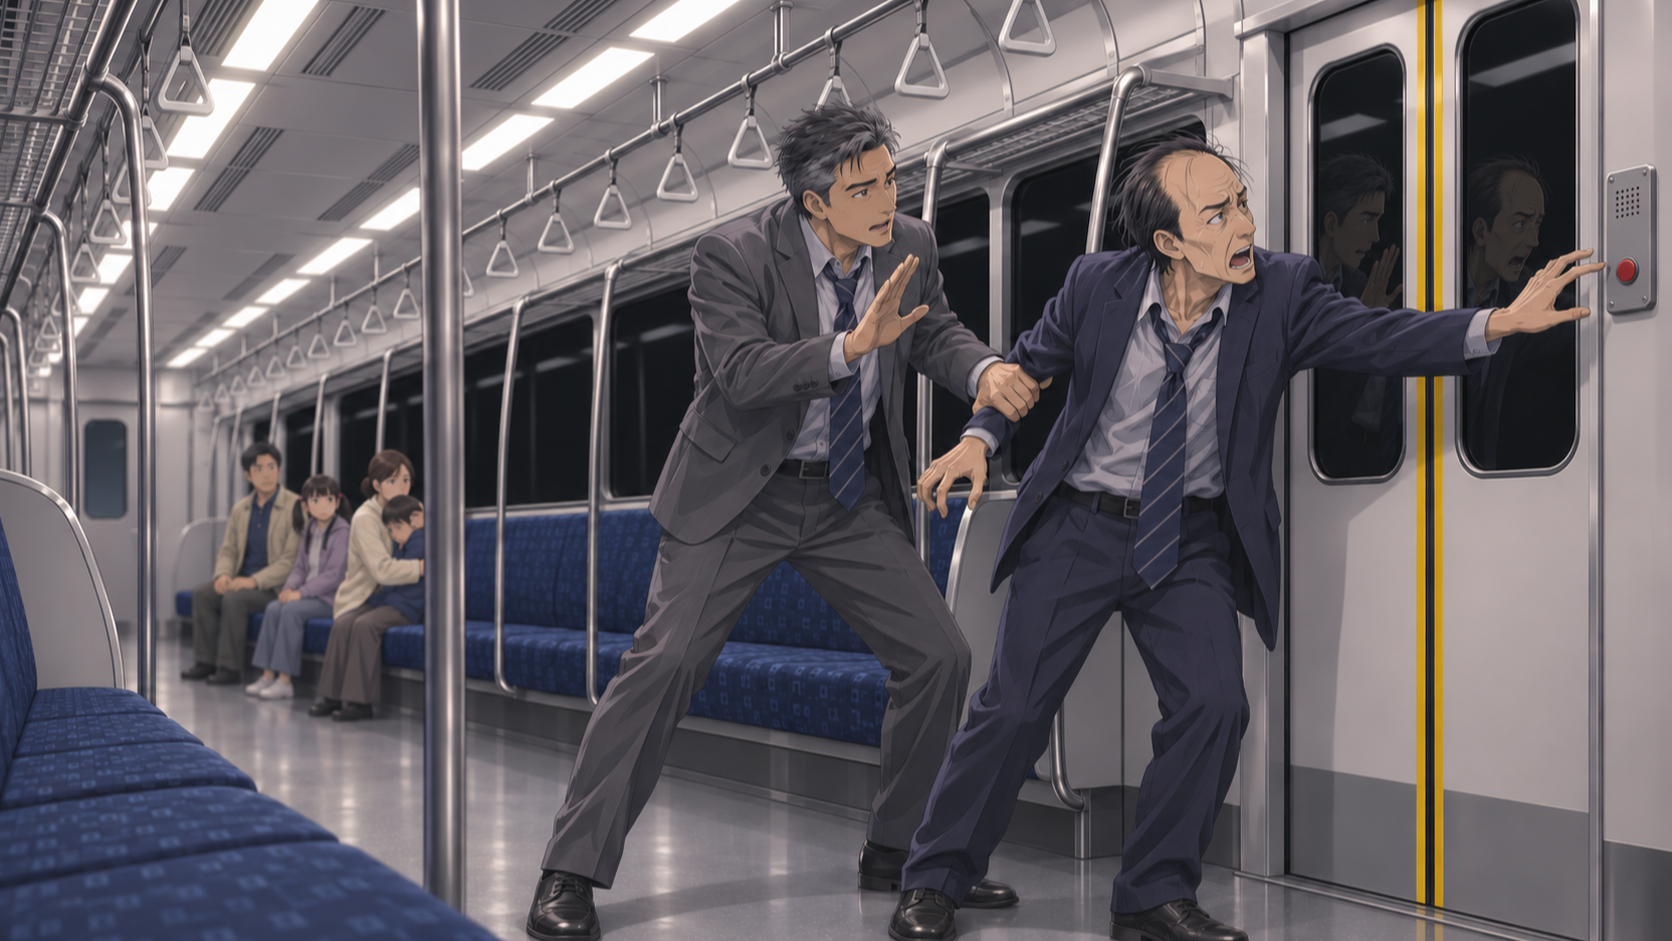
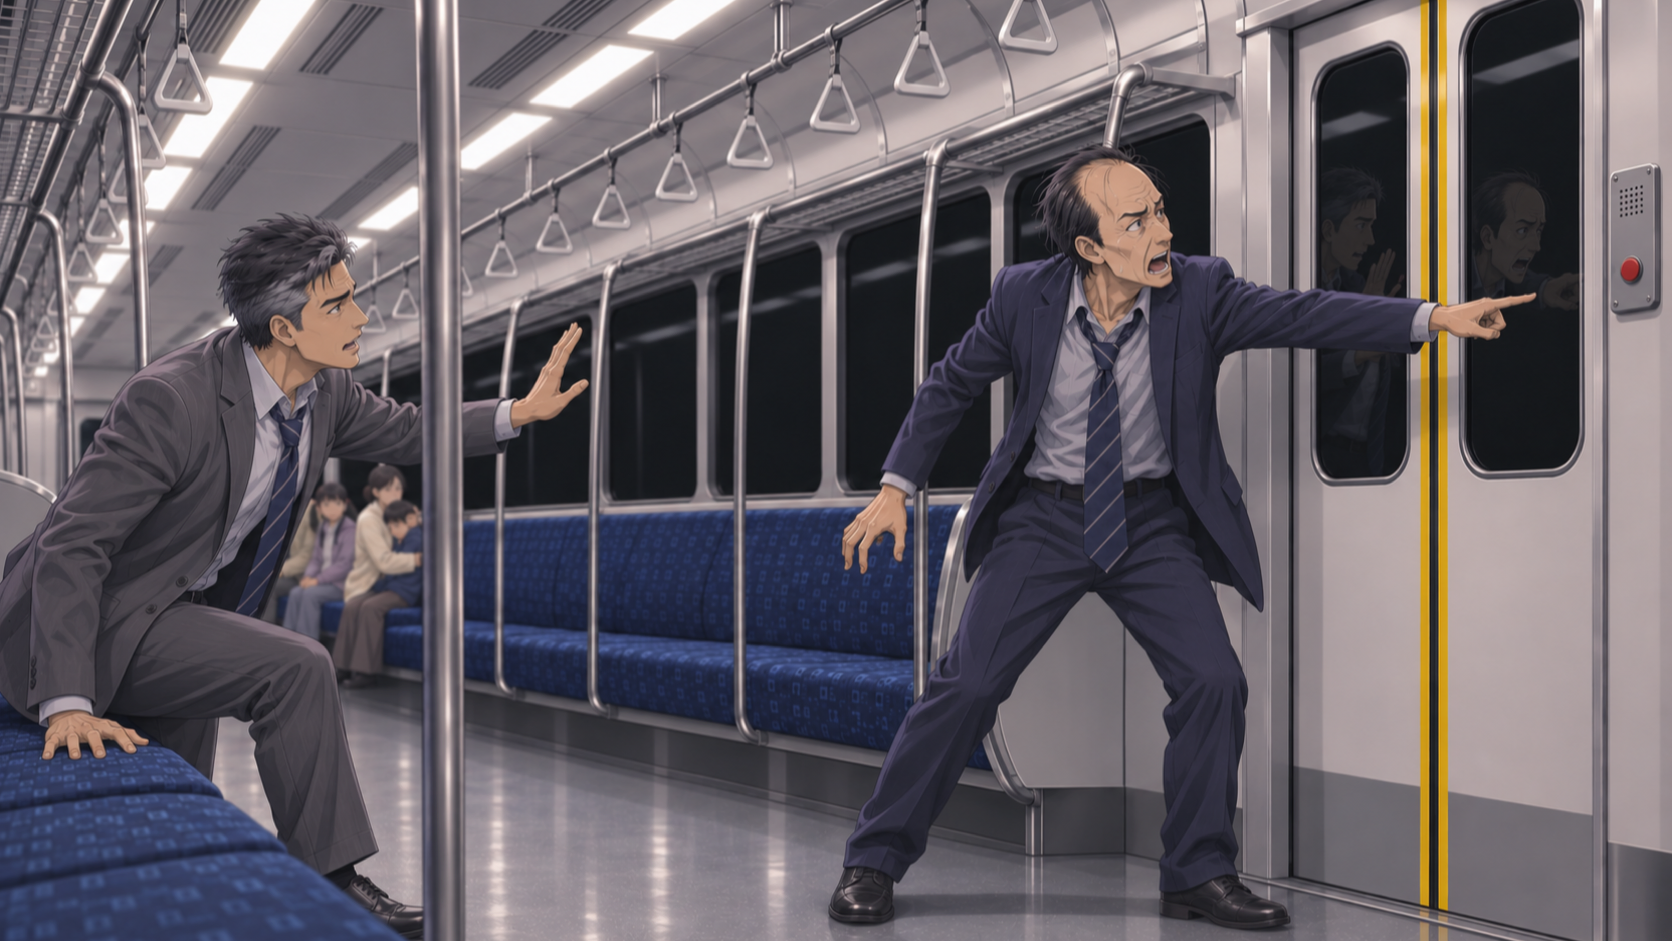
fix(stories): cue Platform arrival and intercom shots on their beats
The arrival headlights now start at the tunnel glimmer (act 1 box 47),
with act1_s0 held over the announcement. The intercom shot starts when
Nakamura demands the button (act 2 box 47) and is regenerated as a
shouting match: he points at the button, Yamamoto half-rises with a
palm raised, and nobody touches.

diff --git a/packages/stories/raw/trainAdventure/act2.md b/packages/stories/raw/trainAdventure/act2.md
@@ -122,11 +122,11 @@ the same Chuo Line commuter carriage as the reference image: side-facing navy pa
 
 **旁白**：她的聲音戛然而止，臉色變得蒼白。孩子察覺到母親的不安，哭聲更大了。那位母親只能把孩子的臉按在自己懷裡，不讓他看到周圍人臉上的恐懼。
 
-```bg intercom
-the same Chuo Line commuter carriage as the reference image: side-facing navy patterned bench seats split by silver stanchion poles, silver grab rails with white triangular hand straps, flat white LED ceiling panels, large rectangular windows above the benches, light-grey floor, sliding doors with yellow edging, no advertisements. Camera: a low-angle medium-wide shot from seat height on the LEFT bench, looking across the aisle at the RIGHT wall where a sliding door with yellow edging stands closed; beside the door, a small grey emergency intercom panel with a round red call button, no readable text. Inside the tunnel: every window is pure black and works as a mirror; no city, no buildings, no lights outside. Nakamura (thin balding man in his 50s with wispy thin hair, crumpled navy suit, loosened navy striped tie) is on his feet beside the door, reaching toward the red button, his face twisted with panic as he shouts; Yamamoto (late-40s man, short grey-streaked hair, grey suit, white shirt, navy striped tie) has stepped across the aisle and grips Nakamura's wrist firmly with one hand, his other hand raised palm out, telling him to calm down. Further along the right bench, beyond several empty seats, small and out of focus: the Kobayashi family side by side (the father in a light jacket and polo, the twelve-year-old girl in pigtails, the mother in a cream cardigan holding her ten-year-old son's face against her chest). Only the people named here are in view, with empty seats between groups and no other passengers; window reflections show only these same people, no extra figures. Muted cold palette, moody cinematic visual-novel background art, 16:9, no text, no logo
-```
-
 **旁白**：焦慮像會傳染的病毒，迅速在車廂內蔓延。人們開始交頭接耳，竊竊私語變成了公開的抱怨和質疑。有人開始頻繁地看手錶，有人不停刷新手機，有人站起來走動。
+
+```bg intercom
+the same Chuo Line commuter carriage as the reference image: side-facing navy patterned bench seats split by silver stanchion poles, silver grab rails with white triangular hand straps, flat white LED ceiling panels, large rectangular windows above the benches, light-grey floor, sliding doors with yellow edging, no advertisements. Camera: a low-angle medium-wide shot from seat height on the LEFT bench, looking across the aisle at the RIGHT wall where a sliding door with yellow edging stands closed; beside the door, a small grey emergency intercom panel with a round red call button, no readable text. Inside the tunnel: every window is pure black and works as a mirror; no city, no buildings, no lights outside. Nakamura (thin balding man in his 50s with wispy thin hair, crumpled navy suit, loosened navy striped tie) is on his feet a step from the door, pointing at the red button with one outstretched arm while he shouts back over his shoulder, his face twisted with panic; he does not touch the button. Yamamoto (late-40s man, short grey-streaked hair, grey suit, white shirt, navy striped tie) is half-risen from his seat on the near side of the aisle, one hand raised palm out toward Nakamura, telling him to calm down; the two men do not touch. Further along the right bench, beyond several empty seats, small and out of focus: the Kobayashi family side by side (the father in a light jacket and polo, the twelve-year-old girl in pigtails, the mother in a cream cardigan holding her ten-year-old son's face against her chest). Only the people named here are in view, with empty seats between groups and no other passengers; window reflections show only these same people, no extra figures. Muted cold palette, moody cinematic visual-novel background art, 16:9, no text, no logo
+```
 
 **自私中年男**：喂！肯定出事了！是不是該去按那個緊急通話鈕啊！不然我們就在這裡困到天亮嗎？萬一出事怎麼辦！
 

diff --git a/packages/stories/raw/trainAdventure/docs/art-bible.md b/packages/stories/raw/trainAdventure/docs/art-bible.md
@@ -44,7 +44,7 @@ Vary both the camera position and the distance from scene to scene; never run th
 | act1_platform_saito | Saito cuts in | medium-wide from the track side | Saito, the four students |
 | act1_platform_emi | Li Jie notices Emi | medium close-up, low side angle | Emi |
 | act1_platform_lingmo | The man in the pillar's shadow | long-lens medium, low angle | Ling Mo (commuters blurred) |
-| act1_platform_arrival | The last train arrives | low, down the tracks | headlights in the tunnel mouth, no train body |
+| act1_platform_arrival | The last train arrives, from the first glimmer in the tunnel through boarding (held over the doors opening, since the train body is never shown) | low, down the tracks | headlights in the tunnel mouth, no train body |
 | act1_s1 | Boarding, doors close | A, wide, eye level | everyone, spread out in their groups |
 | act2_s0 | City lights, quiet ride | three-quarter diagonal, medium | Emi, Li Jie (Yamamoto far off) |
 | act2_s1 | Into the tunnel | close-up, side view against the black window | Li Jie (Emi at the edge) |
@@ -52,7 +52,7 @@ Vary both the camera position and the distance from scene to scene; never run th
 | act2_yamamoto | Yamamoto: thirty years on this line | three-quarter medium along the left bench | Yamamoto (Ito couple blurred, further along) |
 | act2_s3 | Ito couple argue | C, medium, straight on | Ito couple, Ling Mo in the corner |
 | act2_s4 | Boy cries, Nakamura agitated | three-quarter close-up | the Kobayashi family (Nakamura blurred, further along) |
-| act2_intercom | Nakamura goes for the emergency button | low angle from seat height, medium-wide across the aisle | Nakamura, Yamamoto (Kobayashi family blurred) |
+| act2_intercom | Nakamura demands someone press the emergency button | low angle from seat height, medium-wide across the aisle; a shouting match, nobody touches the button or each other | Nakamura, Yamamoto (Kobayashi family blurred) |
 | act2_s5 | Emi's spiral drawing | over-the-shoulder insert | Emi's sketchbook and hand |
 | act2_s6 | Blue-black glow ahead | B, extreme wide | everyone, in their groups |
 | act3_s0 | Sea and two moons | from behind, medium-wide | students at the windows (Nakamura, family small far off) |
@@ -62,7 +62,7 @@ Vary both the camera position and the distance from scene to scene; never run th
 | act3_s4 | The door opens, nobody moves | straight on at the open door | Saito, Yamamoto |
 | act3_door_argument | Argument at the open door | three-quarter wide toward the open door | Yamamoto, Ito Makoto, Nakamura, the four students |
 
-The new backgrounds are named on their fence (` ```bg platform_students ` keys `act1_platform_students`) so the original 14 `s<N>` keys never renumber. Shown again with a `reuse` bg block: act1_platform_students when the students go back to their own talk, act1_s0 while Saito fakes scrolling, act1_s1 in act 2 while the students plan tomorrow, then act2_s0 for Li Jie's next thought, and act3_s4 once the door argument dies down.
+The new backgrounds are named on their fence (` ```bg platform_students ` keys `act1_platform_students`) so the original 14 `s<N>` keys never renumber. Shown again with a `reuse` bg block: act1_platform_students when the students go back to their own talk, act1_s0 while Saito fakes scrolling and again during the arrival announcement, act1_s1 in act 2 while the students plan tomorrow, then act2_s0 for Li Jie's next thought, and act3_s4 once the door argument dies down.
 
 There is no exterior shot: an outside view of the train never matched the interior, so the station is seen through the windows and the open door.
 

diff --git a/packages/stories/raw/trainAdventure/act1.md b/packages/stories/raw/trainAdventure/act1.md
@@ -116,13 +116,17 @@ the same late-night Shinjuku Chuo Line platform as the reference image: steel ca
 
 **李杰**：(內心)那個人⋯⋯總覺得有點違和感。為什麼要把自己裹得那麼嚴實？而且那個姿勢⋯⋯不像是在等車，更像是在⋯⋯觀察什麼。算了，大概是我想多了。這座城市裡，什麼樣的人都有。
 
-```bg platform_arrival
-the same late-night Shinjuku Chuo Line platform as the reference image: steel canopy roof with lattice girders and rows of white fluorescent tubes, square brushed-steel pillars, glossy light-grey tiled floor, yellow tactile strip along the platform edge, tracks running into a black tunnel mouth at the far end, a black departure board with glowing amber bars and no readable characters, silver metal benches against a low back wall with a steel railing, the Tokyo night city with lit office towers beyond; no advertisements. Camera: low, near the platform edge, looking straight down the length of the tracks and the platform toward the black tunnel mouth at the far end, the yellow tactile strip running away from the camera like a guide line. Inside the darkness of the tunnel mouth, two bright white headlights have just broken through, their glare blooming in a soft halo, light spilling forward along the rails and glinting on the steel; no train body is visible, only the lights in the dark. The departure board glows above. A few late-night commuters far down the platform step back behind the yellow line as small dark silhouettes with no visible faces. No train carriages, no train front. Muted cold palette, moody cinematic visual-novel background art, 16:9, no text, no logo
+```bg
+reuse _root/act1_s0
 ```
 
 **旁白**：這時，月台的廣播響起，打斷了李杰的思緒。
 
 **廣播聲**：往高尾方向的末班車即將進站，請各位乘客退到黃線後方等候。
+
+```bg platform_arrival
+the same late-night Shinjuku Chuo Line platform as the reference image: steel canopy roof with lattice girders and rows of white fluorescent tubes, square brushed-steel pillars, glossy light-grey tiled floor, yellow tactile strip along the platform edge, tracks running into a black tunnel mouth at the far end, a black departure board with glowing amber bars and no readable characters, silver metal benches against a low back wall with a steel railing, the Tokyo night city with lit office towers beyond; no advertisements. Camera: low, near the platform edge, looking straight down the length of the tracks and the platform toward the black tunnel mouth at the far end, the yellow tactile strip running away from the camera like a guide line. Inside the darkness of the tunnel mouth, two bright white headlights have just broken through, their glare blooming in a soft halo, light spilling forward along the rails and glinting on the steel; no train body is visible, only the lights in the dark. The departure board glows above. A few late-night commuters far down the platform step back behind the yellow line as small dark silhouettes with no visible faces. No train carriages, no train front. Muted cold palette, moody cinematic visual-novel background art, 16:9, no text, no logo
+```
 
 **旁白**：遠處的隧道口開始透出微弱的光芒。列車的頭燈劃破黑暗，伴隨著逐漸清晰的軌道摩擦聲，一節節銀白色的車廂緩緩駛入月台。冰冷的金屬車身反射著月台的燈光，像一條冰冷的銀蛇。
 
